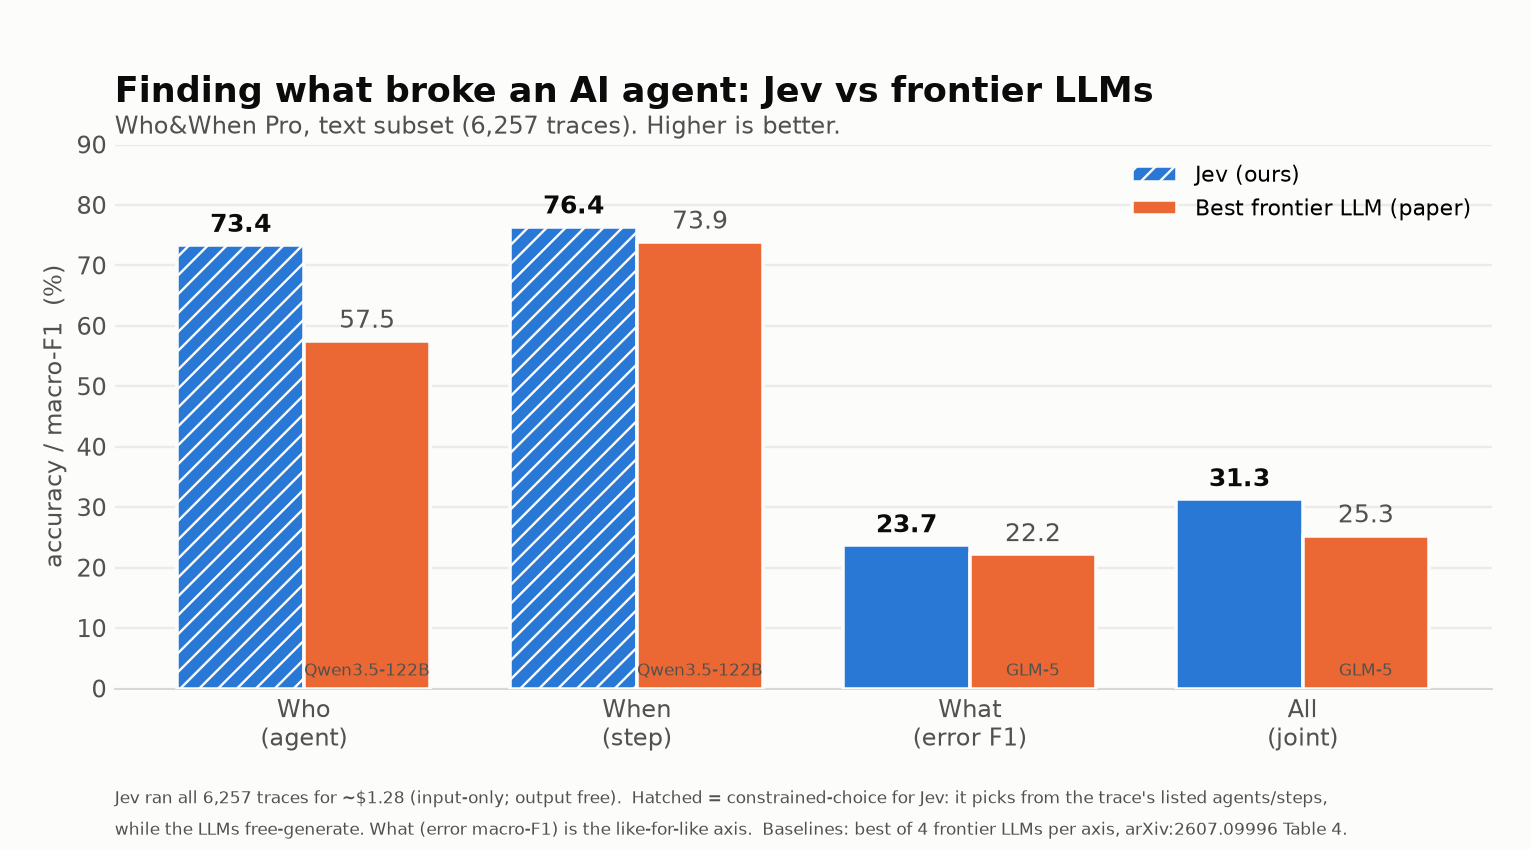
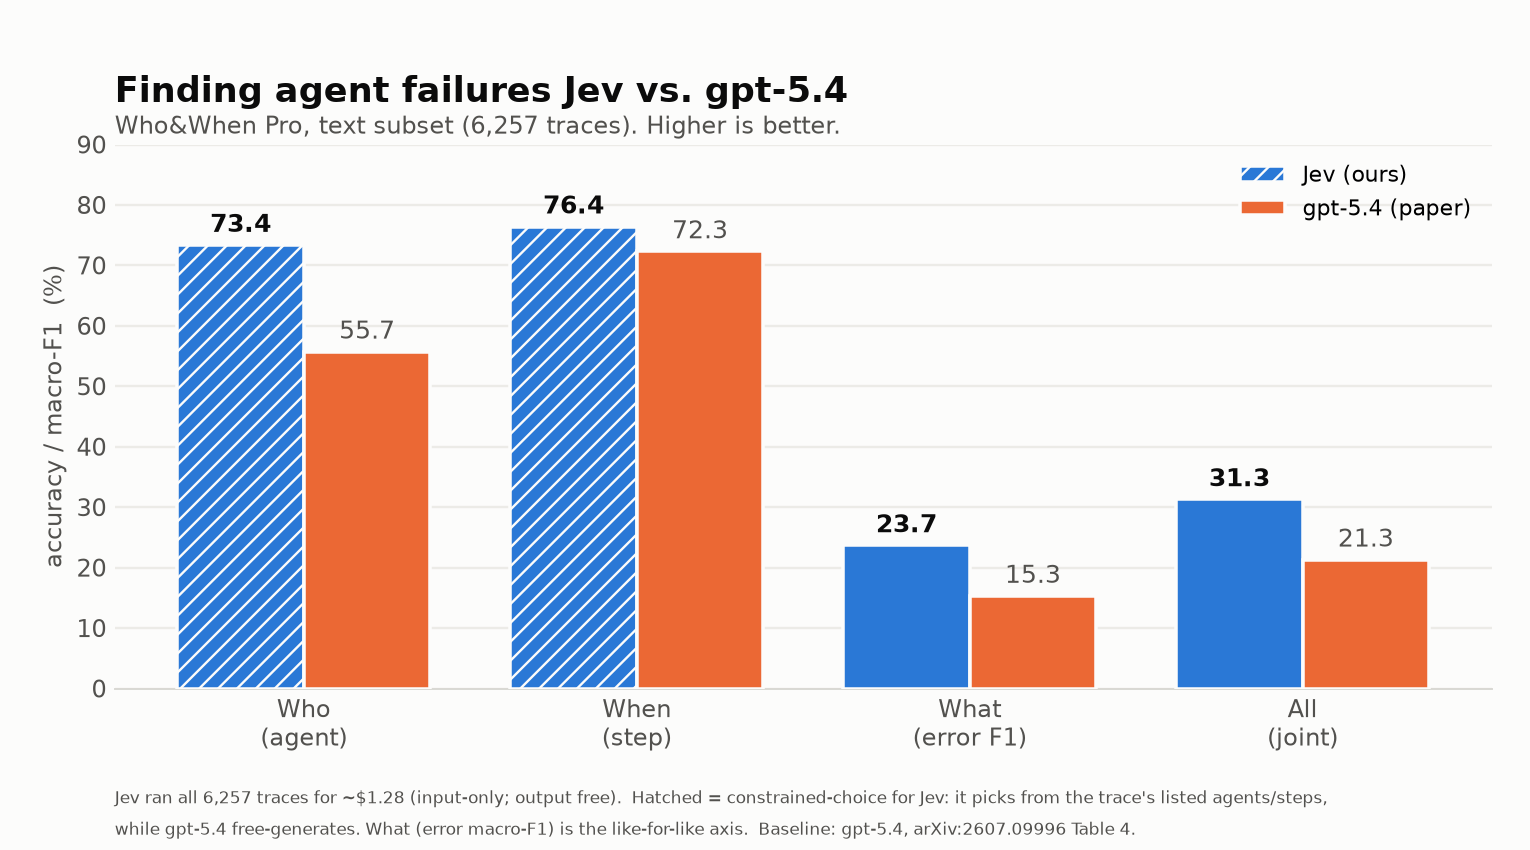
Compare Jev vs gpt-5.4; address codex review
- Chart is now Jev vs gpt-5.4 ('Finding agent failures Jev vs. gpt-5.4'); tables
  and report drop the other models.
- Fix codex BLOCKING findings: stratified_sample now meets n exactly (n=6257
  returned 6188 before); render_chart handles a None axis (single-agent-only
  subset); README Tests lists ruff. Chart subtitle uses the real trace count.
- Add a sampling regression test.

diff --git a/src/jevbench/report_vs_paper.py b/src/jevbench/report_vs_paper.py
@@ -13,13 +13,9 @@ from pathlib import Path
 
 from . import metrics
 
-# arXiv:2607.09996, Table 4, TEXT modality. Percentages.
-PAPER_TEXT = {
-    "GPT-5.4": {"Who": 55.7, "When": 72.3, "What": 15.3, "All": 21.3},
-    "Claude Sonnet 4.6": {"Who": 54.9, "When": 69.8, "What": 19.1, "All": 22.4},
-    "GLM-5": {"Who": 54.9, "When": 71.1, "What": 22.2, "All": 25.3},
-    "Qwen3.5-122B": {"Who": 57.5, "When": 73.9, "What": 17.0, "All": 21.6},
-}
+# Baseline: GPT-5.4, arXiv:2607.09996 Table 4, TEXT modality. Percentages.
+BASELINE_NAME = "gpt-5.4"
+BASELINE = {"Who": 55.7, "When": 72.3, "What": 15.3, "All": 21.3}
 AXES = ("Who", "When", "What", "All")
 CONSTRAINED = {"Who", "When"}  # adaptation-favoured for Jev
 JEV_PRICE_PER_MTOK = 0.042  # input only; output free
@@ -42,15 +38,8 @@ def jev_row(results_path: Path) -> dict:
     }
 
 
-def _best_llm() -> dict[str, tuple[str, float]]:
-    """Per axis, the best paper model and its score."""
-    return {ax: max(((m, PAPER_TEXT[m][ax]) for m in PAPER_TEXT), key=lambda t: t[1])
-            for ax in AXES}
-
-
 def render_markdown(jev: dict, *, label: str = "Jev") -> str:
-    best = _best_llm()
-    L = ["# Who&When Pro - Jev vs frontier LLMs (text subset)", "",
+    L = [f"# Who&When Pro - Jev vs {BASELINE_NAME} (text subset)", "",
          "| Model | Who | When | What | All |", "|---|---|---|---|---|"]
 
     def cell(ax: str) -> str:
@@ -59,8 +48,8 @@ def render_markdown(jev: dict, *, label: str = "Jev") -> str:
 
     L.append(f"| {label} (ours, n={jev['n']}) | {cell('Who')} | {cell('When')} | "
              f"{cell('What')} | {cell('All')} |")
-    for m, r in PAPER_TEXT.items():
-        L.append(f"| {m} *(paper)* | {r['Who']:.1f} | {r['When']:.1f} | {r['What']:.1f} | {r['All']:.1f} |")
+    L.append(f"| {BASELINE_NAME} *(paper)* | {BASELINE['Who']:.1f} | {BASELINE['When']:.1f} | "
+             f"{BASELINE['What']:.1f} | {BASELINE['All']:.1f} |")
 
     L += [
         "",
@@ -68,22 +57,20 @@ def render_markdown(jev: dict, *, label: str = "Jev") -> str:
          f"({jev['input_tokens']:,} input tokens at ${JEV_PRICE_PER_MTOK}/Mtok; output free)."),
         "",
         ("**Who and When are adaptation-favoured**: Jev picks the agent/step from the trace's "
-         "enumerated options, while the paper's LLMs free-generate. The like-for-like axis is "
-         f"**What** (error macro-F1, same 17-code taxonomy for both): Jev {jev['acc']['What']:.1f} "
-         f"vs the best LLM {best['What'][1]:.1f}. Mode-confidence ECE {jev['mode_ece']}. "
-         "Latency is not compared (shared early-access endpoint). Baselines: arXiv:2607.09996 "
-         "Table 4. Failures in Who&When Pro are injected, not natural incidents."),
+         "enumerated options, while the LLM free-generates. The like-for-like axis is **What** "
+         f"(error macro-F1, same 17-code taxonomy for both). Mode-confidence ECE {jev['mode_ece']}. "
+         f"Latency is not compared (shared early-access endpoint). Baseline: {BASELINE_NAME}, "
+         "arXiv:2607.09996 Table 4. Failures in Who&When Pro are injected, not natural incidents."),
     ]
     return "\n".join(L) + "\n"
 
 
 def render_chart(jev: dict, path: Path) -> None:
-    """Grouped bars: Jev vs the best paper LLM per axis. Who/When hatched."""
+    """Grouped bars: Jev vs gpt-5.4 per axis. Who/When hatched (constrained-choice)."""
     import matplotlib
     matplotlib.use("Agg")
     import matplotlib.pyplot as plt
 
-    best = _best_llm()
     blue, orange, surface, ink, muted = "#2a78d6", "#eb6834", "#fcfcfb", "#0b0b0b", "#52514e"
     fig, ax = plt.subplots(figsize=(9, 5), dpi=170)
     fig.patch.set_facecolor(surface)
@@ -91,16 +78,19 @@ def render_chart(jev: dict, path: Path) -> None:
     w = 0.38
     for i, k in enumerate(AXES):
         jx, lx = i - w / 2, i + w / 2
-        ax.bar(jx, jev["acc"][k], w, color=blue, edgecolor=surface, linewidth=1.5,
-               hatch="///" if k in CONSTRAINED else None, zorder=3,
-               label="Jev (ours)" if i == 0 else None)
-        ax.bar(lx, best[k][1], w, color=orange, edgecolor=surface, linewidth=1.5, zorder=3,
-               label="Best frontier LLM (paper)" if i == 0 else None)
-        ax.text(jx, jev["acc"][k] + 1.2, f"{jev['acc'][k]:.1f}", ha="center", va="bottom",
-                fontsize=10.5, color=ink, fontweight="bold")
-        ax.text(lx, best[k][1] + 1.2, f"{best[k][1]:.1f}", ha="center", va="bottom",
+        jv = jev["acc"][k]
+        if jv is None:  # e.g. Who on a single-agent-only subset
+            ax.text(jx, 2, "n/a", ha="center", va="bottom", fontsize=9, color=muted)
+        else:
+            ax.bar(jx, jv, w, color=blue, edgecolor=surface, linewidth=1.5,
+                   hatch="///" if k in CONSTRAINED else None, zorder=3,
+                   label="Jev (ours)" if i == 0 else None)
+            ax.text(jx, jv + 1.2, f"{jv:.1f}", ha="center", va="bottom",
+                    fontsize=10.5, color=ink, fontweight="bold")
+        ax.bar(lx, BASELINE[k], w, color=orange, edgecolor=surface, linewidth=1.5, zorder=3,
+               label=f"{BASELINE_NAME} (paper)" if i == 0 else None)
+        ax.text(lx, BASELINE[k] + 1.2, f"{BASELINE[k]:.1f}", ha="center", va="bottom",
                 fontsize=10.5, color=muted)
-        ax.text(lx, 1.5, best[k][0], ha="center", va="bottom", fontsize=7, color=muted)
 
     labels = {"Who": "Who\n(agent)", "When": "When\n(step)", "What": "What\n(error F1)",
               "All": "All\n(joint)"}
@@ -114,9 +104,9 @@ def render_chart(jev: dict, path: Path) -> None:
     ax.tick_params(length=0, colors=muted)
     ax.yaxis.grid(True, color="#ecebe7", linewidth=1, zorder=0)
     ax.set_axisbelow(True)
-    ax.set_title("Finding what broke an AI agent: Jev vs frontier LLMs", fontsize=15,
+    ax.set_title(f"Finding agent failures Jev vs. {BASELINE_NAME}", fontsize=15,
                  color=ink, fontweight="bold", loc="left", pad=18)
-    ax.text(0, 1.02, "Who&When Pro, text subset (6,257 traces). Higher is better.",
+    ax.text(0, 1.02, f"Who&When Pro, text subset ({jev['n']:,} traces). Higher is better.",
             transform=ax.transAxes, fontsize=10, color=muted)
     ax.legend(loc="upper right", frameon=False, fontsize=9.5)
     fig.text(0.075, 0.055,
@@ -124,8 +114,8 @@ def render_chart(jev: dict, path: Path) -> None:
               "free).  Hatched = constrained-choice for Jev: it picks from the trace's listed "
               "agents/steps,"), fontsize=7.2, color=muted)
     fig.text(0.075, 0.018,
-             ("while the LLMs free-generate. What (error macro-F1) is the like-for-like axis.  "
-              "Baselines: best of 4 frontier LLMs per axis, arXiv:2607.09996 Table 4."),
+             (f"while {BASELINE_NAME} free-generates. What (error macro-F1) is the like-for-like "
+              "axis.  Baseline: gpt-5.4, arXiv:2607.09996 Table 4."),
              fontsize=7.2, color=muted)
     fig.subplots_adjust(left=0.075, right=0.975, top=0.83, bottom=0.19)
     path.parent.mkdir(parents=True, exist_ok=True)

diff --git a/tests/test_sampling.py b/tests/test_sampling.py
@@ -27,6 +27,14 @@ def test_floor_covers_every_framework():
     assert by_fw["smolagents"] >= 5
 
 
+def test_meets_requested_n_exactly():
+    ex = _examples()  # 135 rows across 3 frameworks
+    assert len(stratified_sample(ex, 60, seed=1, floor=5)) == 60
+    # n at/over the dataset size returns every id, not a rounded-down subset.
+    assert set(stratified_sample(ex, len(ex), seed=1, floor=5)) == {e.id for e in ex}
+    assert set(stratified_sample(ex, 10_000, seed=1, floor=5)) == {e.id for e in ex}
+
+
 def test_floor_capped_by_framework_size():
     ex = [Example(f"x_{i}", "x", "b", {}) for i in range(3)]
     ids = stratified_sample(ex, 10, seed=1, floor=20)

diff --git a/src/jevbench/dataset.py b/src/jevbench/dataset.py
@@ -86,6 +86,13 @@ def stratified_sample(
             take = min(quota.get(fw, 0), len(pool))
             picked.update(rng.sample(pool, take))
 
+    # Fill any slots rounding left unallocated, so n (capped at the dataset size)
+    # is met exactly rather than short.
+    target = min(n, len(examples))
+    if len(picked) < target:
+        leftover = [ex.id for ex in examples if ex.id not in picked]
+        picked.update(rng.sample(leftover, target - len(picked)))
+
     return sorted(picked)
 
 

diff --git a/README.md b/README.md
@@ -8,22 +8,19 @@ agent-failure-attribution benchmark: given a failed multi-agent run, predict the
 
 ## Result
 
-On all 6,257 text traces, **Jev matches or beats every frontier LLM in the paper —
-for ~$1.28 total** (Jev bills input only; output tokens are free).
+On all 6,257 text traces, **Jev outperforms GPT-5.4 on every axis — for ~$1.28
+total** (Jev bills input only; output tokens are free).
 
-![Jev vs frontier LLMs](figures/whowhen_jev_vs_llm.png)
+![Jev vs gpt-5.4](figures/whowhen_jev_vs_llm.png)
 
 | Model | Who | When | What (error F1) | All |
 |---|---|---|---|---|
 | **Jev (ours)** | **73.4** | **76.4** | **23.7** | **31.3** |
-| GPT-5.4 *(paper)* | 55.7 | 72.3 | 15.3 | 21.3 |
-| Claude Sonnet 4.6 *(paper)* | 54.9 | 69.8 | 19.1 | 22.4 |
-| GLM-5 *(paper)* | 54.9 | 71.1 | 22.2 | 25.3 |
-| Qwen3.5-122B *(paper)* | 57.5 | 73.9 | 17.0 | 21.6 |
+| gpt-5.4 *(paper)* | 55.7 | 72.3 | 15.3 | 21.3 |
 
-On **What** — classifying the error type over the same 17-code taxonomy both sides
-see — Jev's **23.7** edges the best LLM's 22.2, and Jev leads on joint accuracy
-(31.3 vs 25.3). Full numbers and CIs in [`RESULTS.md`](RESULTS.md). Baselines:
+The like-for-like axis is **What** (error type over the same 17-code taxonomy both
+sides see): Jev **23.7 vs 15.3**. Jev also leads on joint accuracy (31.3 vs 21.3).
+Full numbers and CIs in [`RESULTS.md`](RESULTS.md). Baseline: gpt-5.4,
 arXiv:2607.09996 Table 4.
 
 ## How it works
@@ -96,5 +93,6 @@ Code: Apache-2.0. The dataset keeps its own CC-BY-4.0 license and is not include
 ## Tests
 
 ```sh
-pytest -q      # offline; no API keys required
+pytest -q       # offline; no API keys required
+ruff check .    # lint
 ```

diff --git a/RESULTS.md b/RESULTS.md
@@ -1,13 +1,10 @@
-# Who&When Pro - Jev vs frontier LLMs (text subset)
+# Who&When Pro - Jev vs gpt-5.4 (text subset)
 
 | Model | Who | When | What | All |
 |---|---|---|---|---|
 | Jev (ours, n=6257) | **73.4** [70.5, 76.2] | **76.4** [74.3, 78.4] | **23.7** [22.4, 24.9] | **31.3** [29.5, 33.0] |
-| GPT-5.4 *(paper)* | 55.7 | 72.3 | 15.3 | 21.3 |
-| Claude Sonnet 4.6 *(paper)* | 54.9 | 69.8 | 19.1 | 22.4 |
-| GLM-5 *(paper)* | 54.9 | 71.1 | 22.2 | 25.3 |
-| Qwen3.5-122B *(paper)* | 57.5 | 73.9 | 17.0 | 21.6 |
+| gpt-5.4 *(paper)* | 55.7 | 72.3 | 15.3 | 21.3 |
 
 Jev cost: **$1.28** for all 6257 traces (30,497,481 input tokens at $0.042/Mtok; output free).
 
-**Who and When are adaptation-favoured**: Jev picks the agent/step from the trace's enumerated options, while the paper's LLMs free-generate. The like-for-like axis is **What** (error macro-F1, same 17-code taxonomy for both): Jev 23.7 vs the best LLM 22.2. Mode-confidence ECE 0.287. Latency is not compared (shared early-access endpoint). Baselines: arXiv:2607.09996 Table 4. Failures in Who&When Pro are injected, not natural incidents.
+**Who and When are adaptation-favoured**: Jev picks the agent/step from the trace's enumerated options, while the LLM free-generates. The like-for-like axis is **What** (error macro-F1, same 17-code taxonomy for both). Mode-confidence ECE 0.287. Latency is not compared (shared early-access endpoint). Baseline: gpt-5.4, arXiv:2607.09996 Table 4. Failures in Who&When Pro are injected, not natural incidents.
